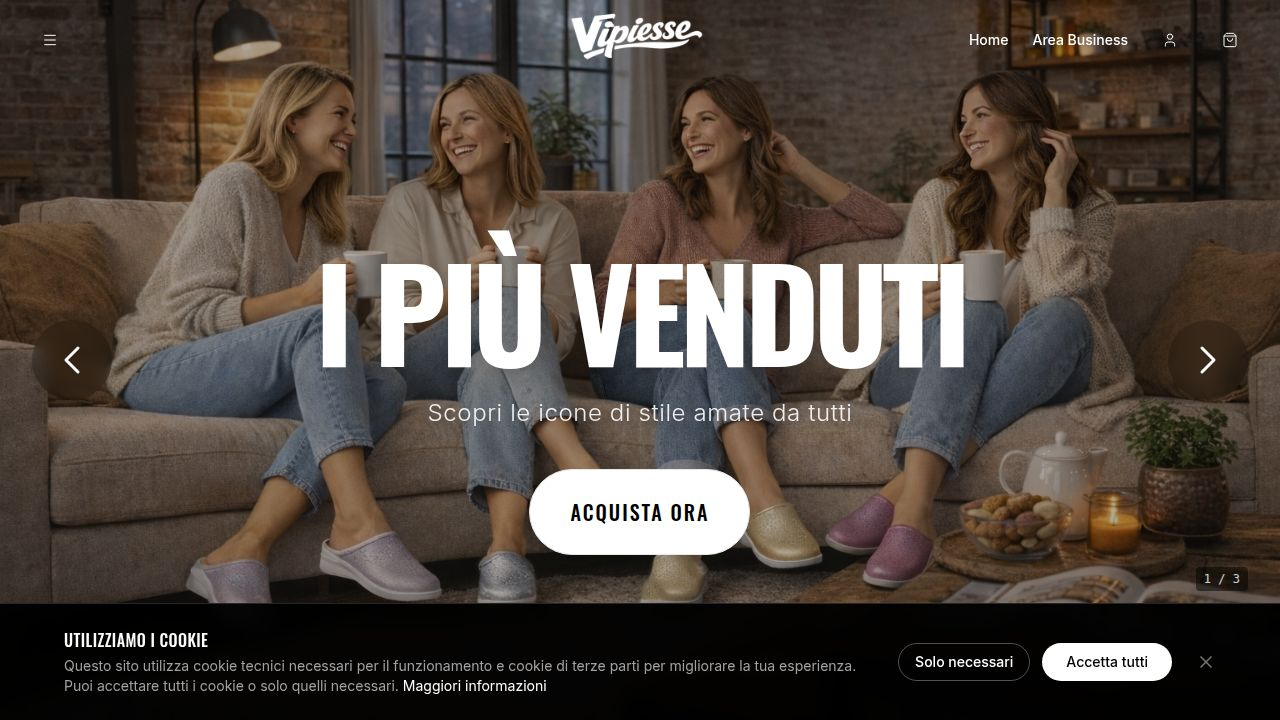
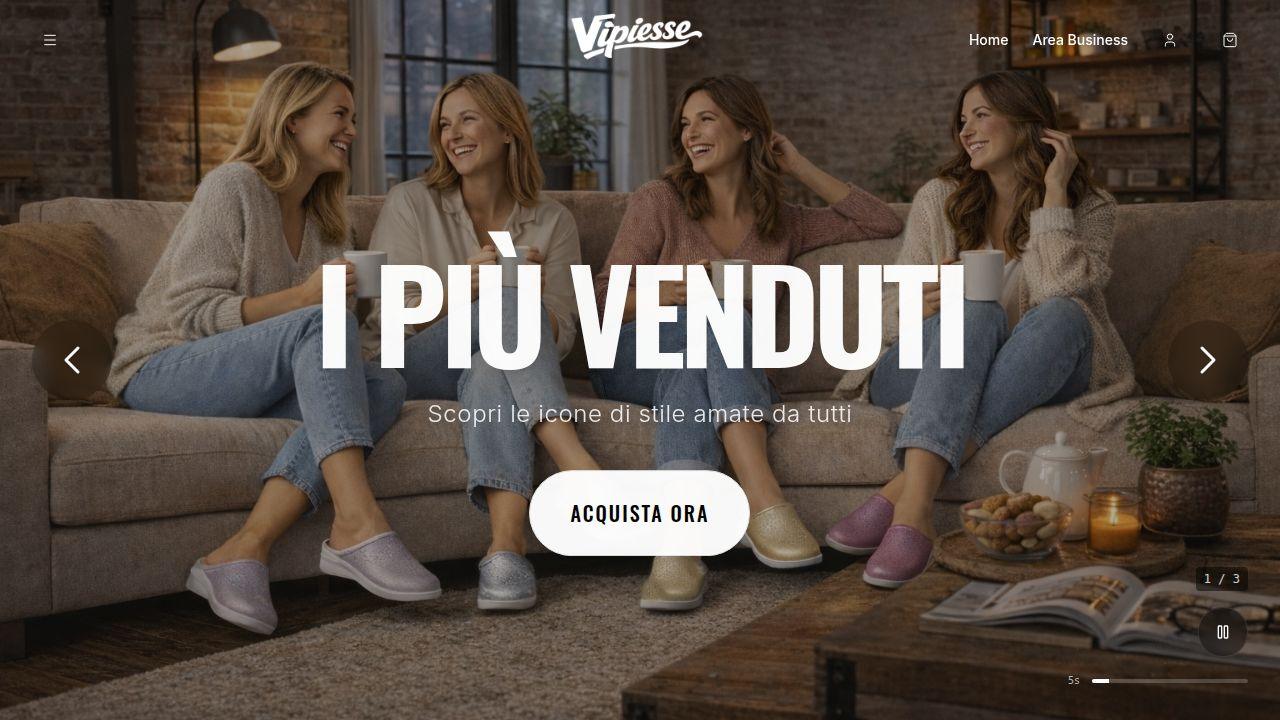
Fix charms product display and improve product ID validation
Add logging to the charms endpoint and implement input validation for product IDs in the API.

Replit-Commit-Author: Agent
Replit-Commit-Session-Id: 9d452bda-9917-433a-89ba-ab4892a9a2e1
Replit-Commit-Checkpoint-Type: full_checkpoint
Replit-Commit-Event-Id: e8b884e4-e1c1-4d16-af73-2c72dfcc4fed
Replit-Commit-Screenshot-Url: https://storage.googleapis.com/screenshot-production-us-central1/5bd47303-f767-4790-bbba-bfecc5310105/9d452bda-9917-433a-89ba-ab4892a9a2e1/z6uIwpR
Replit-Helium-Checkpoint-Created: true

diff --git a/server/routes.ts b/server/routes.ts
@@ -1205,13 +1205,18 @@ Sitemap: https://${domain}/sitemap.xml`;
       const charms = await storage.getProductsByBrandBase("CHARMS");
       res.json(charms);
     } catch (error) {
+      console.error("[charms] Failed to fetch charm products:", error);
       res.status(500).json({ error: "Failed to fetch charms" });
     }
   });
 
   app.get("/api/products/:id", async (req, res) => {
+    const id = parseInt(req.params.id);
+    if (isNaN(id)) {
+      return res.status(400).json({ error: "Invalid product ID" });
+    }
     try {
-      const product = await storage.getProductWithVariants(parseInt(req.params.id));
+      const product = await storage.getProductWithVariants(id);
       if (!product || !product.active) {
         return res.status(404).json({ error: "Product not found" });
       }